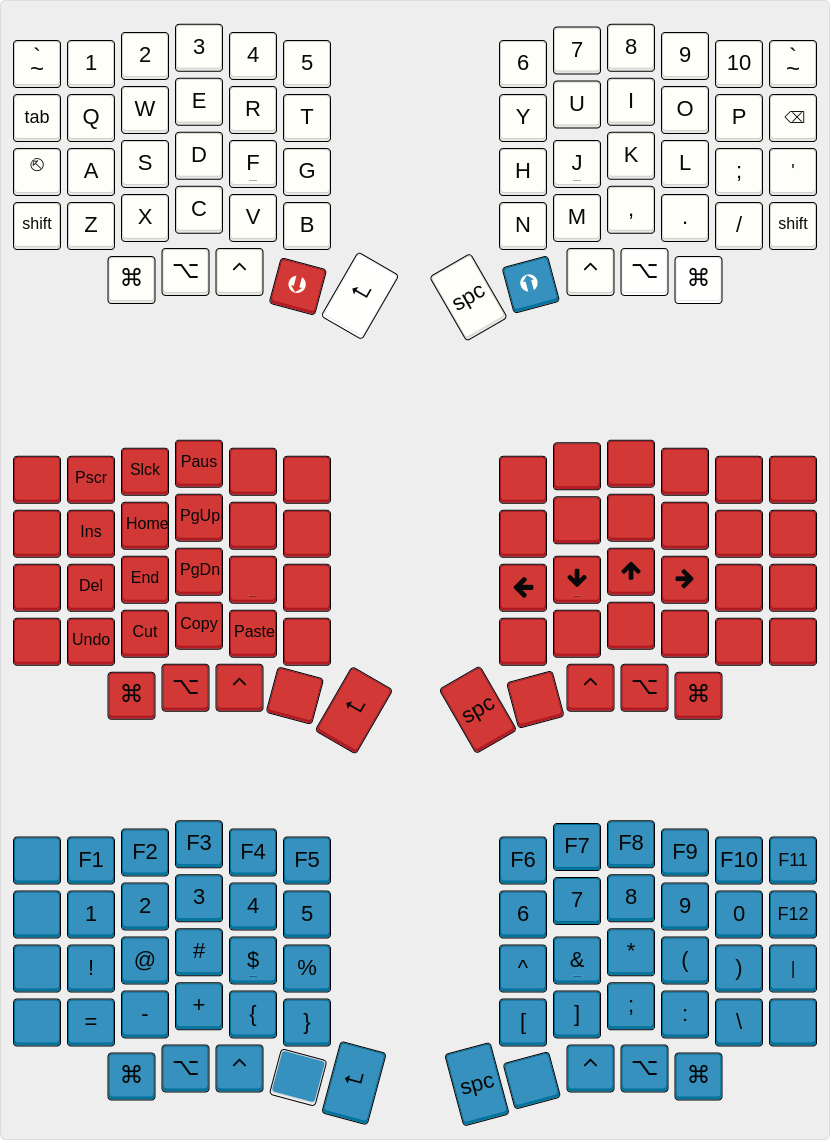
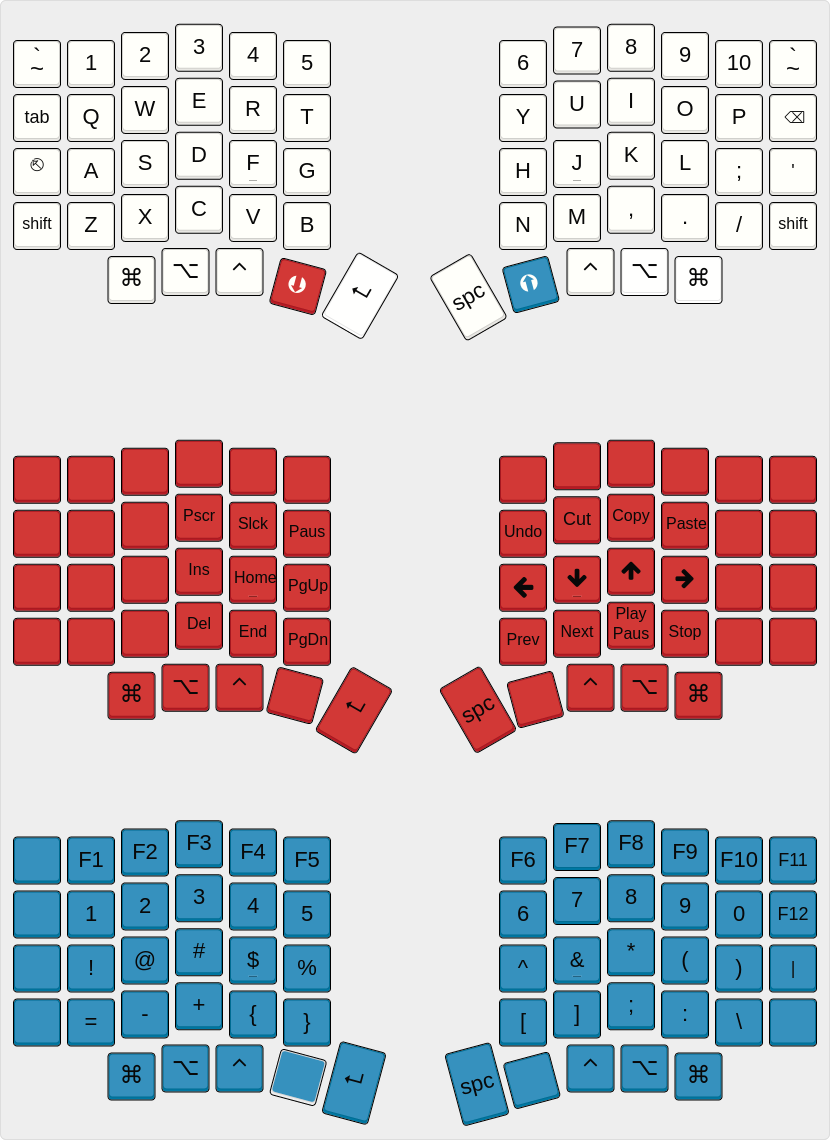
Update Sofle keymap

diff --git a/sofle/keymap.c b/sofle/keymap.c
@@ -44,11 +44,11 @@ const uint16_t PROGMEM keymaps[][MATRIX_ROWS][MATRIX_COLS] = {
  * ,-----------------------------------------.                    ,-----------------------------------------.
  * |      |  F1  |  F2  |  F3  |  F4  |  F5  |                    |  F6  |  F7  |  F8  |  F9  | F10  | F11  |
  * |------+------+------+------+------+------|                    |------+------+------+------+------+------|
- * | Tab  |   1  |   2  |   3  |   4  |   5  |                    |   6  |   7  |   8  |   9  |   0  | F12  |
+ * |      |   1  |   2  |   3  |   4  |   5  |                    |   6  |   7  |   8  |   9  |   0  | F12  |
  * |------+------+------+------+------+------|                    |------+------+------+------+------+------|
- * | Esc  |   !  |   @  |   #  |   $  |   %  |-------.    ,-------|   ^  |   &  |   *  |   (  |   )  |   |  |
+ * |      |   !  |   @  |   #  |   $  |   %  |-------.    ,-------|   ^  |   &  |   *  |   (  |   )  |   |  |
  * |------+------+------+------+------+------| TO(2) |    | TO(1) |------+------+------+------+------+------|
- * |LShift|  =   |  -   |  +   |   {  |   }  |-------|    |-------|   [  |   ]  |   ;  |   :  |   \  | Shift|
+ * |      |  =   |  -   |  +   |   {  |   }  |-------|    |-------|   [  |   ]  |   ;  |   :  |   \  |      |
  * `-----------------------------------------/       /     \      \-----------------------------------------'
  *            | LGUI | LAlt | LCTR |LOWER | /Enter  /       \Space \  |RAISE | RCTR | RAlt | RGUI |
  *            |      |      |      |      |/       /         \      \ |      |      |      |      |
@@ -63,23 +63,23 @@ const uint16_t PROGMEM keymaps[][MATRIX_ROWS][MATRIX_COLS] = {
 ),
 /* LOWER
  * ,----------------------------------------.                    ,-----------------------------------------.
- * |      | Pscr | Slck |Pause |      |      |                    |      |      |      |      |      |      |
+ * |      |      |      |      |      |      |                    |      |      |      |      |      |      |
  * |------+------+------+------+------+------|                    |------+------+------+------+------+------|
- * | Tab  | Ins  | Home | PgUp |      |      |                    |      |      |      |       |     |      |
+ * |      |      |      | Pscr | Slck | Paus |                    |      |      |      |       |     |      |
  * |------+------+------+------+------+------|                    |------+------+------+------+------+------|
- * | Esc  | Del  | End  | PgDn |      |      |-------.    ,-------| Left | Down | Up   | Right |     |      |
+ * |      |      |      | Ins  | Home | PgUp |-------.    ,-------| Left | Down | Up   | Right |     |      |
  * |------+------+------+------+------+------| TO(2) |    | TO(1) |------+------+------+------+------+------|
- * |Shift | Undo |  Cut | Copy | Paste|      |-------|    |-------|      |      |      |       |     |      |
+ * |      |      |      | Del  | End  | PgDn |-------|    |-------| Prev | Next | Play | Stop  |     |      |
  * `-----------------------------------------/       /     \      \-----------------------------------------'
  *            | LGUI | LAlt | LCTR |LOWER | /Enter  /       \Space \  |RAISE | RCTR | RAlt | RGUI |
  *            |      |      |      |      |/       /         \      \ |      |      |      |      |
  *            `----------------------------------'            '------''---------------------------'
  */
 [2] = LAYOUT(
-  _______, KC_PSCR, KC_SLCK, KC_PAUSE, _______,  _______,                       _______, _______, _______, _______,  _______, _______,
-  _______, KC_INS,  KC_HOME, KC_PGUP,  XXXXXXX,  XXXXXXX,                       _______, _______, _______, _______,  _______, _______,
-  _______, KC_DEL,  KC_END,  KC_PGDN,  XXXXXXX,  XXXXXXX,                       KC_LEFT, KC_DOWN, KC_UP,   KC_RIGHT, XXXXXXX, XXXXXXX,
-  _______, KC_UNDO, KC_CUT,  KC_COPY,  KC_PASTE, XXXXXXX, _______,     _______, XXXXXXX, _______, XXXXXXX, _______,  XXXXXXX, _______,
-                      _______, _______, _______, _______, _______,     _______, _______, _______, _______, _______
+  _______, _______, _______, _______, _______, _______,                        _______, _______, _______, _______,  _______, _______,
+  _______, _______, _______, KC_PSCR, KC_SLCK, KC_PAUSE,                       KC_UNDO, KC_CUT,  KC_COPY, KC_PASTE, _______, _______,
+  _______, _______, _______, KC_INS,  KC_HOME, KC_PGUP,                        KC_LEFT, KC_DOWN, KC_UP,   KC_RIGHT, XXXXXXX, XXXXXXX,
+  _______, _______, _______, KC_DEL,  KC_END,  KC_PGDN, _______,      _______, KC_MPRV, KC_MNXT, KC_MSTP, KC_MPLY,  XXXXXXX, _______,
+                    _______, _______, _______, _______, _______,      _______, _______, _______, _______, _______
 )
 };

diff --git a/sofle/encoder.c b/sofle/encoder.c
@@ -18,17 +18,51 @@
 #    include QMK_KEYBOARD_H
 
 bool encoder_update_user(uint8_t index, bool clockwise) {
-    if (index == 0) {
-        if (clockwise) {
-            tap_code_delay(KC_VOLU, 10);
-        } else {
-            tap_code_delay(KC_VOLD, 10);
+    uint8_t temp_mod = get_mods();
+    bool is_ctrl  = temp_mod & MOD_MASK_CTRL;
+    bool is_shift = temp_mod & MOD_MASK_SHIFT;
+
+    if (is_ctrl) {
+        if (index == 0) {
+            if (clockwise) {
+                tap_code_delay(KC_VOLU, 10);
+            } else {
+                tap_code_delay(KC_VOLD, 10);
+            }
+        } else if (index == 1) {
+            if (clockwise) {
+                tap_code_delay(KC_BRIU, 10);
+            } else {
+                tap_code_delay(KC_BRID, 10);
+            }
         }
-    } else if (index == 1) {
-        if (clockwise) {
-            tap_code(KC_PGDOWN);
-        } else {
-            tap_code(KC_PGUP);
+    } else if (is_shift) {
+        if (index == 0) {
+            if (clockwise) {
+                tap_code(KC_MS_L);
+            } else {
+                tap_code(KC_MS_R);
+            }
+        } else if (index == 1) {
+            if (clockwise) {
+                tap_code(KC_MS_U);
+            } else {
+                tap_code(KC_MS_D);
+            }
+        }
+    } else {
+        if (index == 0) {
+            if (clockwise) {
+                tap_code(KC_WH_L);
+            } else {
+                tap_code(KC_WH_R);
+            }
+        } else if (index == 1) {
+            if (clockwise) {
+                tap_code(KC_PGDOWN);
+            } else {
+                tap_code(KC_PGUP);
+            }
         }
     }
     return true;

diff --git a/sofle/README.md b/sofle/README.md
@@ -19,4 +19,15 @@ View in [Keyboard Layout Editor](http://www.keyboard-layout-editor.com/#/gists/a
 - Vim-style navigation (`h` `j` `k` `l` as arrow keys)
 - Mode for standard navigation cluster
 - Toggling between layers when encoders are pressed
-- Left encoder controls `VOLUP`/`VOLDOWN`. Right encoder `PGUP`/`PGDN`.
+- Encoder controls (additional layer/s when `Ctrl` or `Shift` is held)
+
+### Encoder controls
+
+| modifier | encoder | action             |
+| -------- | ------- | ------------------ |
+| N/A      | Left    | Mouse wheel L/R    |
+| N/A      | Right   | PgUp/PgDn          |
+| Ctrl     | Left    | VolUp/VolUp        |
+| Ctrl     | Right   | Brightness Up/Dn   |
+| Shift    | Left    | Mouse cursor L/R   |
+| Shift    | Right   | Mouse cursor Up/Dn |

diff --git a/README.md b/README.md
@@ -1,4 +1,4 @@
-# keebs :keyboard:
+# :keyboard: keebs 
 
 Collection of custom keymaps for mechanical keyboards compatible with
 [QMK](https://github.com/qmk) and [Via](https://github.com/the-via).
